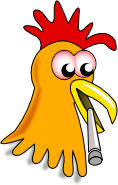
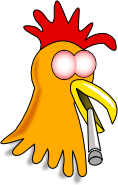
dodan je dim, animacija glave i zjenica

Changed region(s): [[0.661, 0.3243, 0.8136, 0.4324], [0.5085, 0.3243, 0.6356, 0.4324]]

diff --git a/HighChicken/GameScene.m b/HighChicken/GameScene.m
@@ -21,7 +21,7 @@
     [self addChild:podloga];
 
     SKSpriteNode *kokos = [SKSpriteNode spriteNodeWithImageNamed:@"kokaSjedi"];
-    kokos.size = CGSizeMake(200, 200);
+    kokos.size = CGSizeMake(180, 180);
     kokos.position = CGPointMake(self.size.width/1.9, self.size.height/3);
     kokos.zPosition=1;
     kokos.name = @"kokos";
@@ -29,12 +29,39 @@
     
     
     SKSpriteNode *glava = [SKSpriteNode spriteNodeWithImageNamed:@"glavaKoke"];
-    glava.size = CGSizeMake(120, 120);
-    glava.position = CGPointMake(80, 80);
+    glava.size = CGSizeMake(90, 90);
+    glava.position = CGPointMake(65, 22);
     glava.zPosition=1;
     glava.name = @"glava";
     [kokos addChild:glava];
+    glava.anchorPoint = CGPointMake(0.5, 0.3);
+    
+    SKSpriteNode *zjenice = [SKSpriteNode spriteNodeWithImageNamed:@"zjenice"];
+    zjenice.size = CGSizeMake(20, 10);
+    zjenice.position = CGPointMake(15, 30);
+    zjenice.zPosition=2;
+    zjenice.name = @"zjenice";
+    [glava addChild:zjenice];
+    
+    SKAction *mov1 =[SKAction moveBy:CGVectorMake(-3, 0) duration:0.3];
+    SKAction *mov2 =[SKAction moveBy:CGVectorMake(3, 0) duration:0.6];
+    SKAction *mov =[SKAction sequence:@[mov1,mov2]];
+    SKAction *repeatMov = [SKAction repeatActionForever:mov];
+    [zjenice runAction:repeatMov];
 
+    SKAction *rot1 =[SKAction rotateByAngle:-0.03 duration:0.3];
+    SKAction *rot2 =[SKAction rotateByAngle:0.03 duration:0.6];
+    SKAction *rot = [SKAction sequence:@[rot1,rot2]];
+    SKAction *repeatLop = [SKAction repeatActionForever:rot];
+    [glava runAction:repeatLop];
+    
+    NSString *burstPath =[[NSBundle mainBundle] pathForResource:@"dim" ofType:@"sks"];
+    SKEmitterNode *dim2 = [NSKeyedUnarchiver unarchiveObjectWithFile:burstPath];
+    dim2.position=CGPointMake(glava.size.width/2-20, -glava.size.height/2+25);
+    dim2.zPosition=3;
+    dim2.alpha = 0.5;
+    dim2.zRotation = -0.30;
+    [glava addChild:dim2];
   
     SKSpriteNode *tipka = [SKSpriteNode spriteNodeWithImageNamed:@"crvenaTipka1"];
     tipka.xScale = 1;
